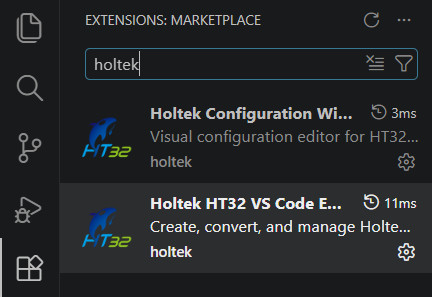
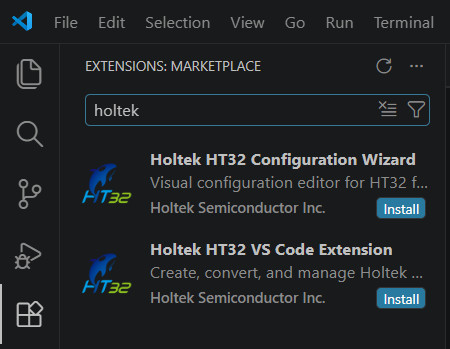
update

diff --git a/README.md b/README.md
@@ -33,7 +33,7 @@ A VS Code extension for **Holtek HT32** series Cortex-M microcontrollers (M0+/M3
 
 > **GCC toolchain:** Auto-detected on startup; installed automatically via winget if not found, or set manually in settings.<br>
 > **OpenOCD:** Bundled — no separate installation needed.<br>
-> **Extension dependencies:** [Cortex-Debug](https://marketplace.visualstudio.com/items?itemName=marus25.cortex-debug) and [Holtek Configuration Wizard](https://marketplace.visualstudio.com/items?itemName=holtek.ht32-config-wizard) are installed automatically.
+> **Extension dependencies:** [Cortex-Debug](https://marketplace.visualstudio.com/items?itemName=marus25.cortex-debug) and [Holtek HT32 Configuration Wizard](https://marketplace.visualstudio.com/items?itemName=holtek.ht32-config-vscode) are installed automatically.
 
 ---
 
@@ -318,7 +318,7 @@ Toolchain paths are stored in VS Code User Settings and shared across all projec
 
 ## Configuration Wizard
 
-The **Holtek Configuration Wizard** extension (installed automatically) provides a visual editor for HT32 firmware configuration files, compatible with Keil MDK Configuration Wizard syntax.
+The **Holtek HT32 Configuration Wizard** extension (installed automatically) provides a visual editor for HT32 firmware configuration files, compatible with Keil MDK Configuration Wizard syntax.
 
 **Supported files:**
 
@@ -332,8 +332,8 @@ The **Holtek Configuration Wizard** extension (installed automatically) provides
 **How to open:**
 
 - **Editor title button (recommended):** Open a supported `.h` / `.c` / `.s` file, then click the **Preview** button in the editor title bar. Click **Go to File** to switch back to text editing.
-- **Right-click menu:** Right-click the file in Explorer → **Open in Holtek Configuration Wizard**
-- **Command Palette:** `Ctrl+Shift+P` → **HT32: Open in Holtek Configuration Wizard**
+- **Right-click menu:** Right-click the file in Explorer → **Open in Holtek HT32 Configuration Wizard**
+- **Command Palette:** `Ctrl+Shift+P` → **HT32: Open in Holtek HT32 Configuration Wizard**
 
 **Control types:**
 

diff --git a/README_TRAD.md b/README_TRAD.md
@@ -17,7 +17,7 @@ Holtek HT32 系列 Cortex-M 微控制器專用 VS Code 擴充功能
 
 > **GCC 工具鏈**：擴充功能啟動時自動偵測；找不到時透過 winget 自動安裝<br>
 > **OpenOCD**：已內建，無需另外安裝<br>
-> **相依擴充功能**：安裝時自動一併安裝 **Cortex-Debug**（除錯介面）與 **Holtek Configuration Wizard**（設定精靈）
+> **相依擴充功能**：安裝時自動一併安裝 **Cortex-Debug**（除錯介面）與 **Holtek HT32 Configuration Wizard**（設定精靈）
 
 ---
 ## 安裝擴充功能
@@ -309,7 +309,7 @@ HT32 工具列點 **Settings** 開啟設定面板，面板分為三個分頁：
 
 ## Configuration Wizard
 
-**Holtek Configuration Wizard** 為相依擴充功能，安裝 Project Assistant 時會自動一併安裝，提供 HT32 韌體設定檔的視覺化圖形編輯介面，相容 Keil MDK Configuration Wizard 語法。
+**Holtek HT32 Configuration Wizard** 為相依擴充功能，安裝 Project Assistant 時會自動一併安裝，提供 HT32 韌體設定檔的視覺化圖形編輯介面，相容 Keil MDK Configuration Wizard 語法。
 
 ### 支援的設定檔
 
@@ -326,10 +326,10 @@ HT32 工具列點 **Settings** 開啟設定面板，面板分為三個分頁：
 開啟支援的檔案（`.h`、`.c`、`.s`）後，點擊編輯器右上角的 **Preview** 按鈕即可切換為 Wizard 視圖；點擊 **Go to File** 切換回文字編輯。
 
 **方法二 — 右鍵選單：**  
-在 Explorer 中對 `.h`、`.c`、`.s` 檔案按右鍵 → **Open in Holtek Configuration Wizard**
+在 Explorer 中對 `.h`、`.c`、`.s` 檔案按右鍵 → **Open in Holtek HT32 Configuration Wizard**
 
 **方法三 — 命令面板：**  
-`Ctrl+Shift+P` → **HT32: Open in Holtek Configuration Wizard**
+`Ctrl+Shift+P` → **HT32: Open in Holtek HT32 Configuration Wizard**
 
 ### 控制項類型
 